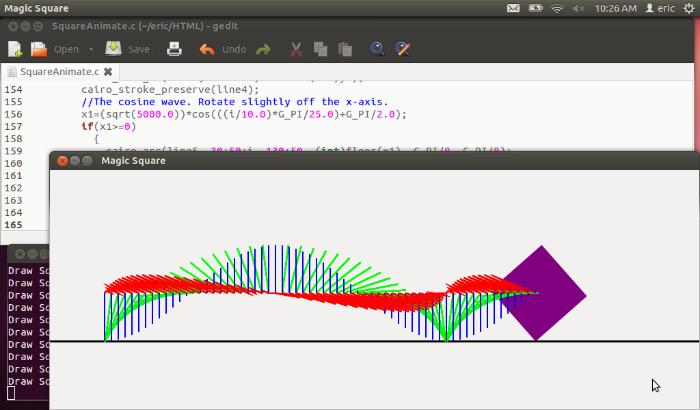
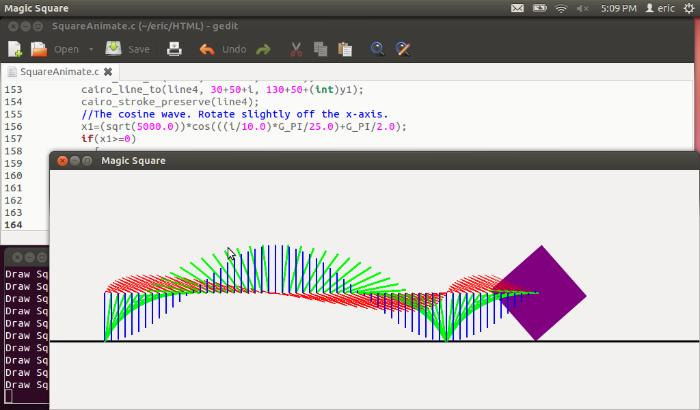
Change line size for cosine wave.

diff --git a/Misc/SquareAnimate.c b/Misc/SquareAnimate.c
@@ -138,7 +138,7 @@ static void draw_square(GtkWidget *widget, int move)
     cairo_set_source_rgb(line3, 0, 1.0, 0);
     cairo_set_line_width(line4, 2.0);
     cairo_set_source_rgb(line4, 0, 0, 1.0);
-    cairo_set_line_width(line5, 2.0);
+    cairo_set_line_width(line5, 0.5);
     cairo_set_source_rgb(line5, 1, 0, 0);
     for(i=0;i<move;i+=10)
        {
